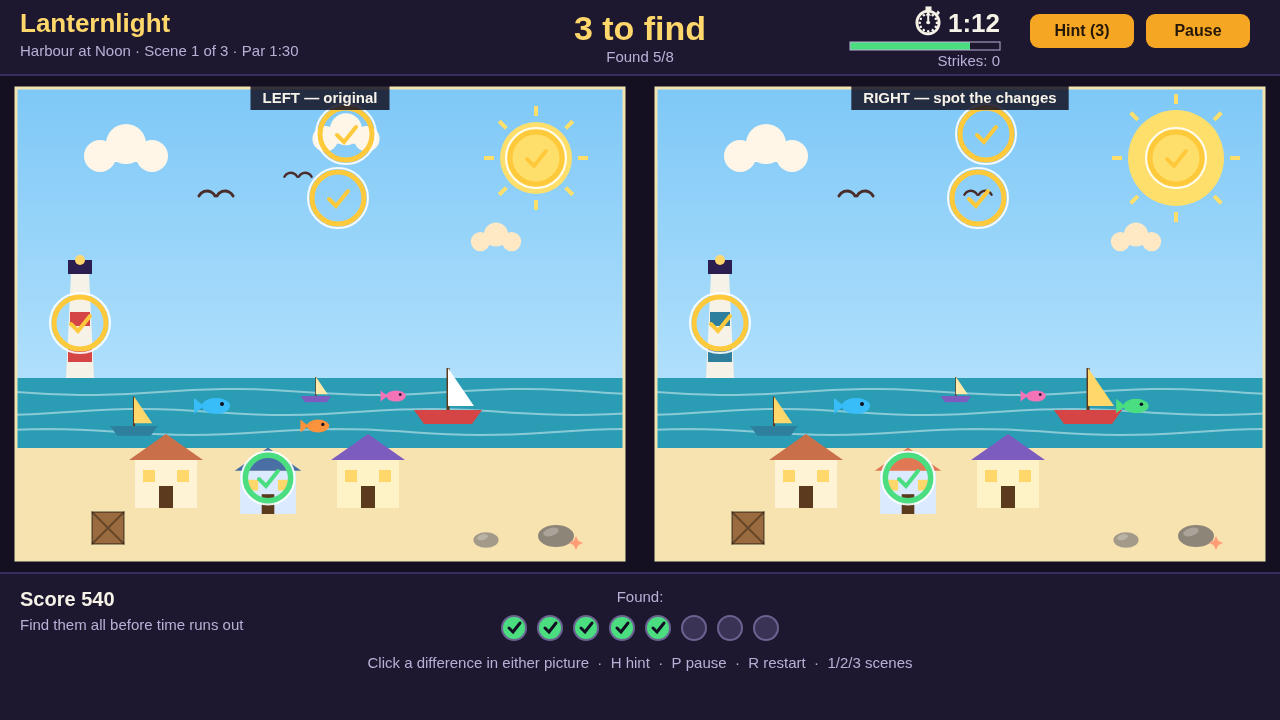
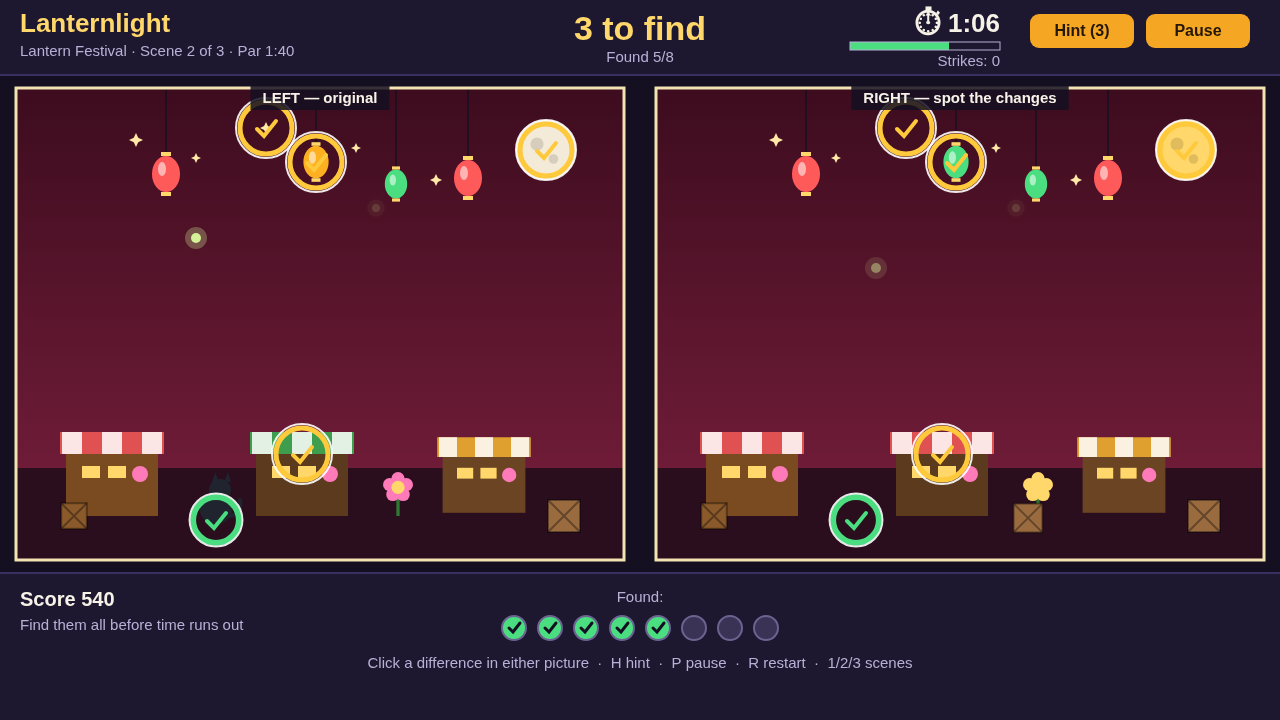
V5: best-of — V2 richness + V3 ramp 6/8/10 + V4 palettes, festival cover 5/8

diff --git a/game/src/scenes.js b/game/src/scenes.js
@@ -8,7 +8,7 @@
 export const LANTERNLIGHT_SCENES = [
   {
     name: 'Harbour at Noon',
-    parSeconds: 90,
+    parSeconds: 75,
     sky: ['#7ec8f7', '#cfeeff'],
     groundY: 360,
     ground: '#f7e3b0',
@@ -41,14 +41,12 @@ export const LANTERNLIGHT_SCENES = [
       { x: 322, y: 110, obj: 4, change: { x: 322, y: 110 } },
       { x: 64, y: 235, obj: 5, change: { stripe: '#2e7f9e' } },
       { x: 252, y: 390, obj: 7, change: { roof: '#e07856' } },
-      { x: 432, y: 300, obj: 9, change: { sail: '#ffd76a' } },
       { x: 302, y: 338, obj: 12, change: { hide: true } },
-      { x: 480, y: 318, add: { k: 'fish', x: 480, y: 318, s: 0.9, c: '#4ade80' } },
     ],
   },
   {
     name: 'Lantern Festival',
-    parSeconds: 105,
+    parSeconds: 100,
     sky: ['#3d0c1e', '#7a1f3d'],
     groundY: 380,
     ground: '#2a0e1e',
@@ -87,7 +85,7 @@ export const LANTERNLIGHT_SCENES = [
   },
   {
     name: 'Autumn Garden',
-    parSeconds: 120,
+    parSeconds: 130,
     sky: ['#ffe0b3', '#ffd0a0'],
     groundY: 300,
     ground: '#c98f3d',
@@ -124,6 +122,8 @@ export const LANTERNLIGHT_SCENES = [
       { x: 540, y: 250, obj: 6, change: { leaf: '#e07856' } },
       { x: 450, y: 170, add: { k: 'butterfly', x: 450, y: 170, s: 0.9, c: '#ffd76a' } },
       { x: 304, y: 330, obj: 16, change: { c: '#7c3f16' } },
+      { x: 120, y: 380, obj: 14, change: { c: '#7c6a55' } },
+      { x: 390, y: 140, obj: 4, change: { x: 390, y: 140 } },
     ],
   },
 ];

diff --git a/game/src/shots.js b/game/src/shots.js
@@ -6,11 +6,11 @@
 import { startLanternlightScene } from './engine.js';
 
 const LANTERNLIGHT_SHOT_PRESETS = {
-  // The cover: scene 1 mid-hunt — five differences found (gold rings on both
+  // The cover: scene 2 mid-hunt — five differences found (gold rings on both
   // panels), three still hiding, counter and timer big and readable.
-  cover: { scene: 0, found: [0, 1, 2, 3, 4], secondsLeft: 72, phase: 'play', score: 540 },
-  // Scene 2 mid-hunt, three found.
-  market: { scene: 1, found: [0, 1, 2], secondsLeft: 95, phase: 'play', score: 310 },
+  cover: { scene: 1, found: [0, 1, 2, 3, 4], secondsLeft: 66, phase: 'play', score: 540 },
+  // Scene 1 mid-hunt, four found — the harbour scene in the set.
+  harbour: { scene: 0, found: [0, 1, 2, 3], secondsLeft: 80, phase: 'play', score: 420 },
   // Scene 3 nearly done, six found, clock running low.
   garden: { scene: 2, found: [0, 1, 2, 3, 4, 5], secondsLeft: 48, phase: 'play', score: 650 },
   // The victory card after all three scenes.

diff --git a/game/src/render.js b/game/src/render.js
@@ -741,7 +741,7 @@ export function drawLanternlightOverlay(ctx, state) {
     return drawLanternlightCard(ctx, 'Lanternlight', [
       'Spot the difference — two pictures, changes hiding in the right one.',
       'Click a change in either picture. Find them all before time runs out.',
-      'Three scenes: Harbour at Noon, Lantern Festival, Autumn Garden.',
+      'Three scenes, rising difficulty: Harbour at Noon, Lantern Festival, Autumn Garden.',
     ], [{ id: 'start', label: '▶  Start playing' }]);
   }
   if (state.phase === 'scene-complete') {
